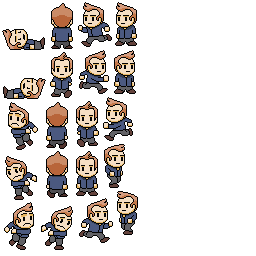
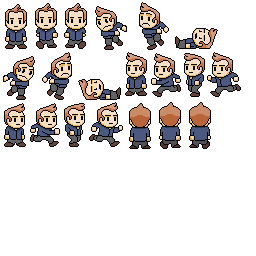
Cambios en los sprites con la nueva versión de TexturePacker. Cambio en el rearme.

diff --git a/TPE Tower Defense/Classes/HelloWorldScene.m b/TPE Tower Defense/Classes/HelloWorldScene.m
@@ -70,8 +70,7 @@
     [self createWavesLabel];
     [self createScoreLabelWithInitialScore:100000];
     [self createTowerButtons];
-    [self createCharacterSprite:@"jeff" withPosition:ccp([startPoint[@"x"] integerValue],[startPoint[@"y"] integerValue])];
-//    [self createCharacterSprite:@"trainjeff" withPosition:ccp([startPoint[@"x"] integerValue],[startPoint[@"y"] integerValue])];
+    [self createCharacterSprite:@"trainjeff" withPosition:ccp([startPoint[@"x"] integerValue],[startPoint[@"y"] integerValue])];
     return self;
 }
 
@@ -293,7 +292,7 @@
     NSDictionary * nextPoint = [objectGroup objectNamed:currentPoint[@"next"]];
     currentPoint = nextPoint;
     // Ver si lo actualizo de más
-    [self updateCharacerSprite:@"jeff"];
+    [self updateCharacerSprite:@"trainjeff"];
     // Si llego a la posición final
     if([currentPoint[@"next"] isEqual: @"p0"]) {
         [self playAudioEffectNamed:@"pickup.caf"];
@@ -303,7 +302,7 @@
         [spriteSheet removeChild:_character cleanup: YES];
         NSDictionary * startPoint = [objectGroup objectNamed:_tileMap.properties[@"startPosition"]];
         // Ver si cargo de más.
-        [self createCharacterSprite:@"jeff" withPosition:ccp([startPoint[@"x"] integerValue],[startPoint[@"y"] integerValue])];
+        [self createCharacterSprite:@"trainjeff" withPosition:ccp([startPoint[@"x"] integerValue],[startPoint[@"y"] integerValue])];
     } else {
         CGPoint destinyLocation = ccp([currentPoint[@"x"] floatValue],[currentPoint[@"y"] floatValue]);
         _moveAction = [CCActionMoveTo actionWithDuration:dt position:destinyLocation];

diff --git a/README.md b/README.md
@@ -1,4 +1,10 @@
-towerDefense
-============
+Greendale Runners
+=================
 
-TPE Tower Defense (Cocos 2D 3 + iOS 7)
+TPE Tower Defense (Cocos2D v3 + iOS 7)
+
+Inspirado en: Digital Estate Planning: The Game 
+https://github.com/hawkthorne/hawkthorne-journey
+
+Franco Román Meola
+Todos los derechos Reservados
